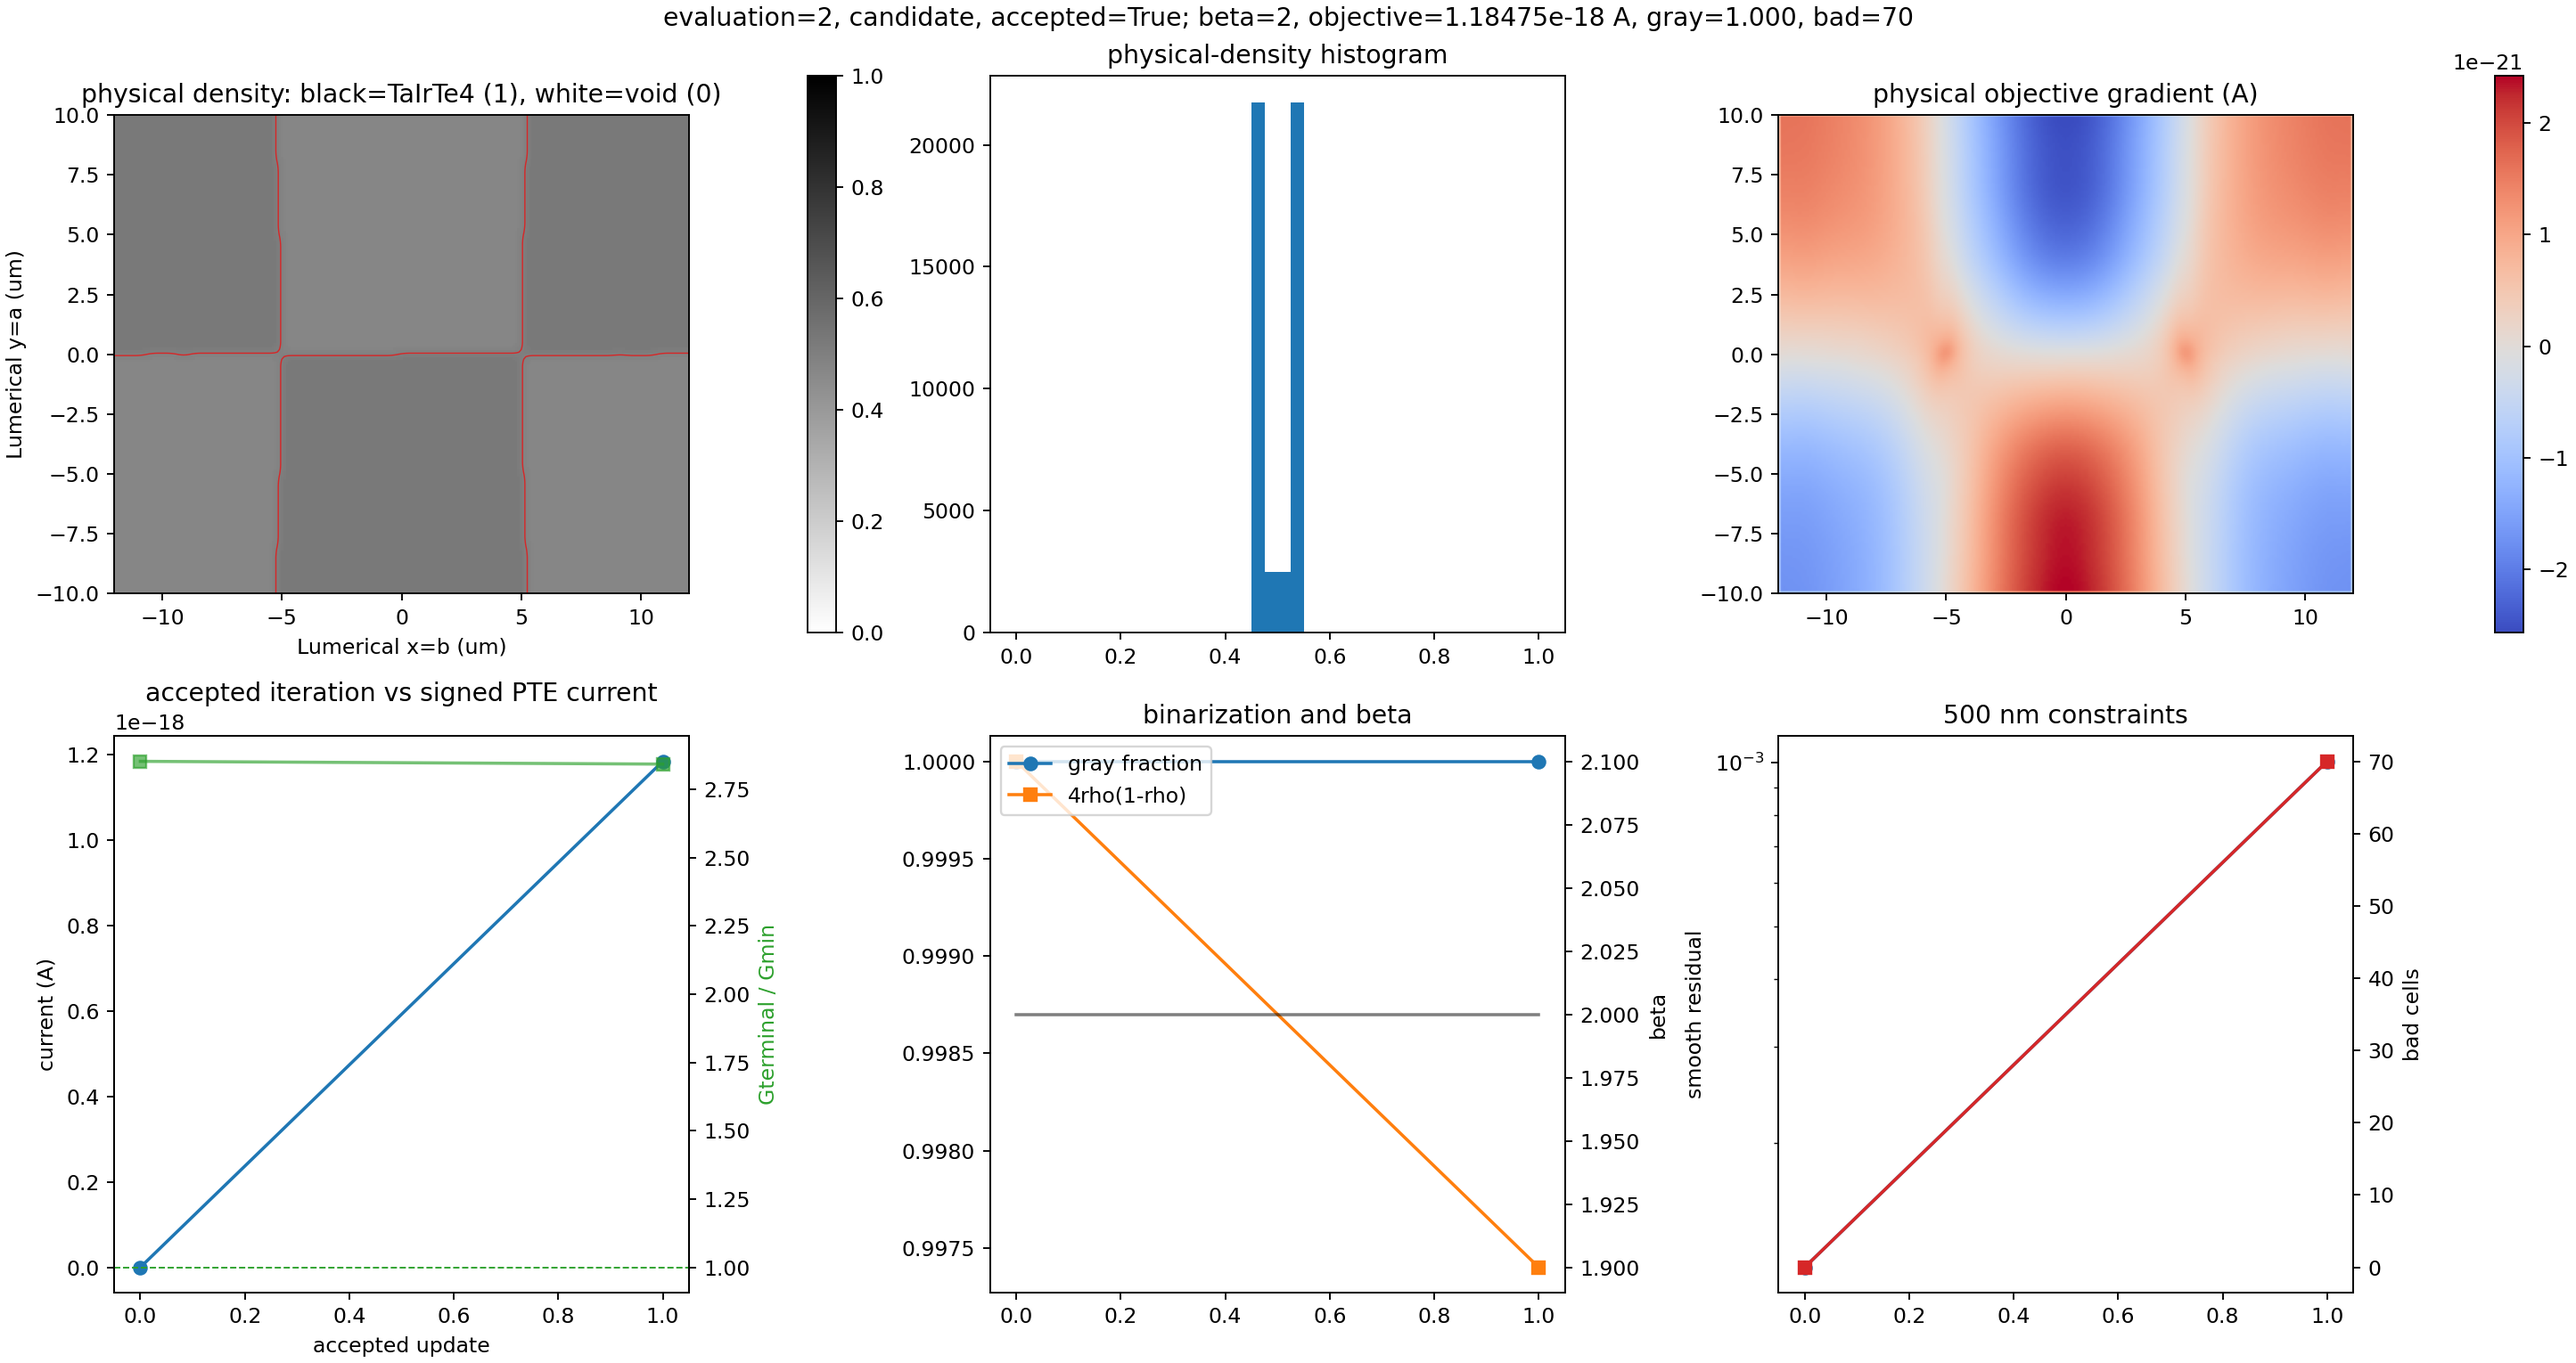
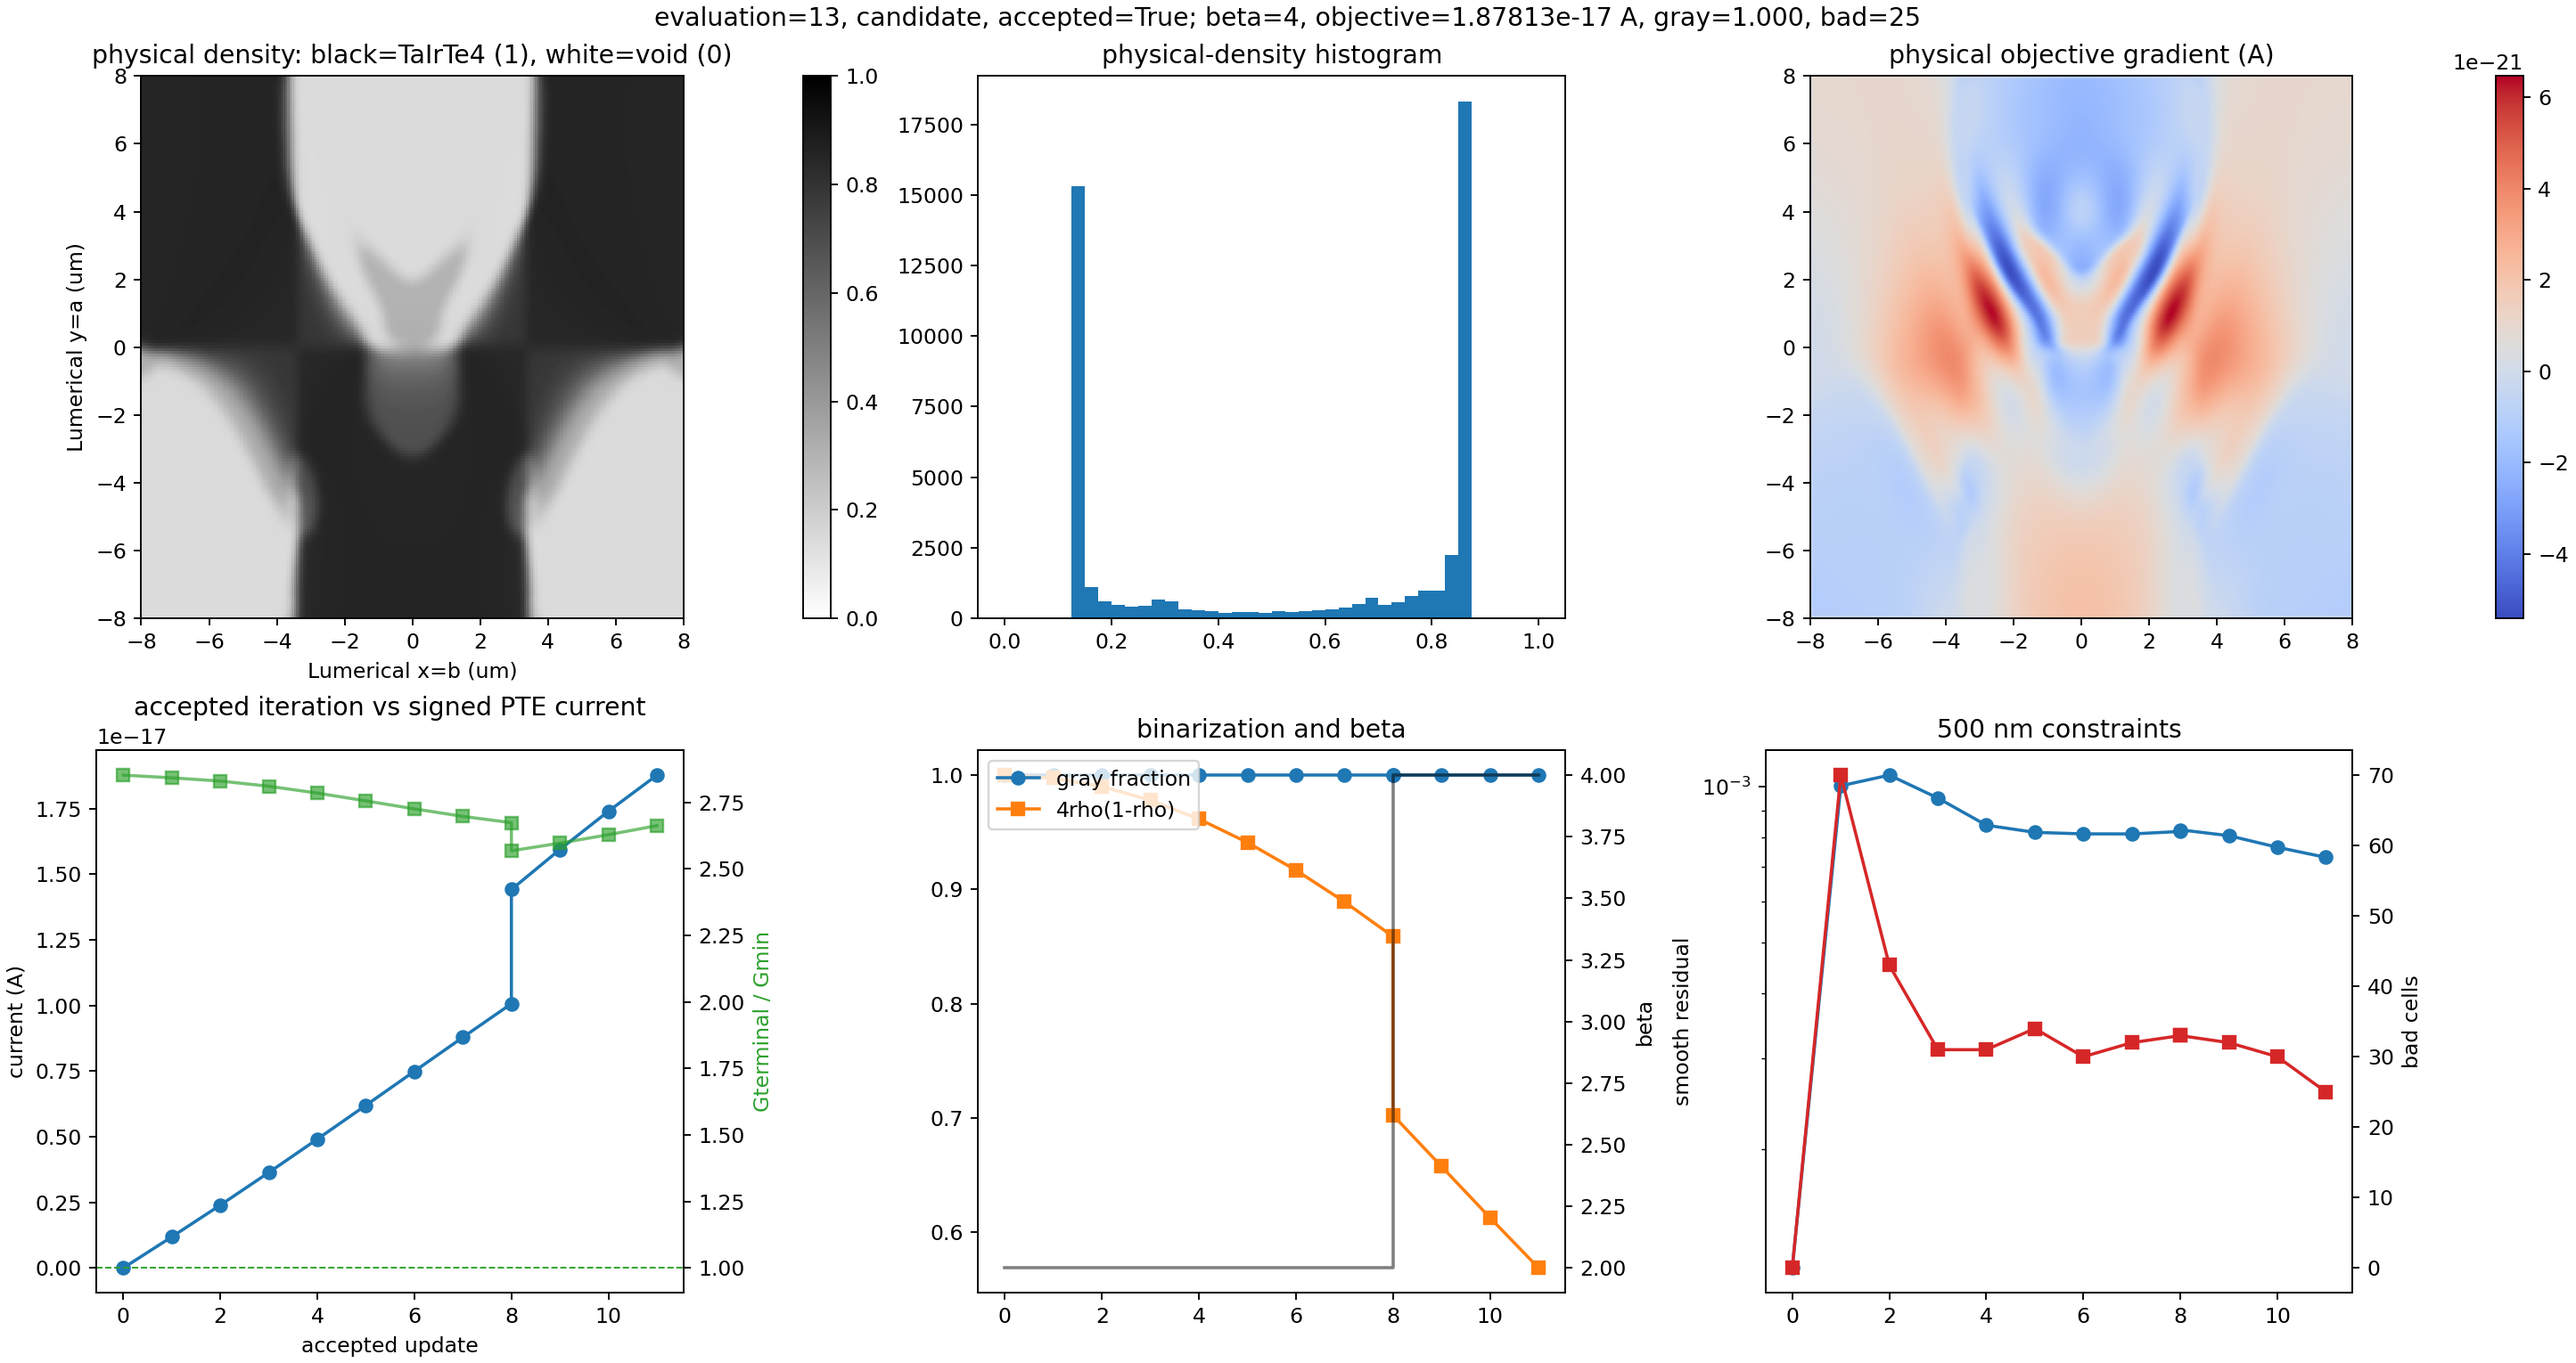
Publish every Run012 iteration plot

diff --git a/photothermal_pte/optimization_runs/tairte4_flake_topology/regenerate_iteration_plots.py b/photothermal_pte/optimization_runs/tairte4_flake_topology/regenerate_iteration_plots.py
@@ -1,0 +1,150 @@
+#!/usr/bin/env python3
+"""Regenerate every optimization-evaluation plot from immutable raw artifacts."""
+
+from __future__ import annotations
+
+import argparse
+import hashlib
+import json
+from pathlib import Path
+import re
+import time
+
+import numpy as np
+
+from photothermal_pte.optimization_runs.tairte4_flake_topology.run_optimization import (
+    publish_plot,
+)
+
+
+EVALUATION_PATTERN = re.compile(r"evaluation_(\d+)")
+
+
+def read_json_with_retry(path: Path, attempts: int = 10) -> list[dict]:
+    for attempt in range(attempts):
+        try:
+            return json.loads(path.read_text())
+        except json.JSONDecodeError:
+            if attempt + 1 == attempts:
+                raise
+            time.sleep(0.2)
+    raise AssertionError("unreachable")
+
+
+def sha256(path: Path) -> str:
+    digest = hashlib.sha256()
+    with path.open("rb") as stream:
+        for block in iter(lambda: stream.read(1024 * 1024), b""):
+            digest.update(block)
+    return digest.hexdigest()
+
+
+def locate_artifacts(raw_root: Path, row: dict) -> tuple[int, str, Path, Path]:
+    if row.get("initial_uniform"):
+        return (
+            1,
+            "initial",
+            raw_root / "evaluation_initial_rho.npz",
+            raw_root / "evaluation_initial" / "objective_gradient.npz",
+        )
+
+    result_path = Path(row["solver_result"])
+    evaluation_dir = result_path.parent
+    match = EVALUATION_PATTERN.search(evaluation_dir.name)
+    if match is None:
+        raise ValueError(f"cannot extract evaluation id from {evaluation_dir}")
+    evaluation_id = int(row.get("evaluation_id", match.group(1)))
+    label = "reprojection" if row.get("stage_reprojection") else "candidate"
+    return (
+        evaluation_id,
+        label,
+        raw_root / f"{evaluation_dir.name}_rho.npz",
+        evaluation_dir / "objective_gradient.npz",
+    )
+
+
+def regenerate(raw_root: Path, published: Path) -> dict:
+    history = read_json_with_retry(raw_root / "history.json")
+    published.mkdir(parents=True, exist_ok=True)
+    index: list[dict] = []
+    last_accepted: tuple[int, str, np.ndarray, np.ndarray, dict, int] | None = None
+
+    for history_index, row in enumerate(history):
+        evaluation_id, label, rho_path, gradient_path = locate_artifacts(raw_root, row)
+        if not rho_path.is_file() or not gradient_path.is_file():
+            raise FileNotFoundError(f"incomplete evaluation {evaluation_id}: {rho_path}, {gradient_path}")
+        with np.load(rho_path) as data:
+            rho = np.asarray(data["rho"], dtype=np.float64)
+        with np.load(gradient_path) as data:
+            gradient = np.asarray(data["gradient_total_A"], dtype=np.float64)
+        summary = {
+            "beta": float(row["beta"]),
+            "gray_fraction_0p01_0p99": float(row["gray_fraction"]),
+            "exact": {"total_bad_cell_count": int(row["exact_bad_cells"])},
+        }
+        publish_plot(
+            published,
+            history[: history_index + 1],
+            rho,
+            gradient,
+            summary,
+            evaluation_id=evaluation_id,
+            accepted=bool(row["accepted"]),
+            label=label,
+            publish_latest=False,
+        )
+        plot_path = published / f"evaluation_{evaluation_id:04d}_{label}.png"
+        record = {
+            "evaluation_id": evaluation_id,
+            "label": label,
+            "accepted": bool(row["accepted"]),
+            "accepted_update_index": int(row.get("accepted_update_index", row["global_iteration"])),
+            "beta": float(row["beta"]),
+            "objective_A": float(row["objective_A"]),
+            "plot": plot_path.name,
+            "plot_sha256": sha256(plot_path),
+        }
+        index.append(record)
+        if row["accepted"]:
+            last_accepted = (
+                evaluation_id, label, rho, gradient, summary, history_index
+            )
+
+    if last_accepted is not None:
+        evaluation_id, label, rho, gradient, summary, history_index = last_accepted
+        publish_plot(
+            published,
+            history[: history_index + 1],
+            rho,
+            gradient,
+            summary,
+            evaluation_id=evaluation_id,
+            accepted=True,
+            label=label,
+            publish_latest=True,
+        )
+
+    payload = {
+        "schema": "tairte4-iteration-plot-index-v1",
+        "red_density_contour_present": False,
+        "density_rendering": "gray_r: black=rho_1_TaIrTe4, white=rho_0_void",
+        "evaluation_count": len(index),
+        "latest_evaluation_id": index[-1]["evaluation_id"] if index else None,
+        "plots": index,
+    }
+    (published / "iteration_plot_index.json").write_text(json.dumps(payload, indent=2) + "\n")
+    return payload
+
+
+def main() -> int:
+    parser = argparse.ArgumentParser()
+    parser.add_argument("--raw-root", required=True, type=Path)
+    parser.add_argument("--published-dir", required=True, type=Path)
+    args = parser.parse_args()
+    payload = regenerate(args.raw_root.resolve(), args.published_dir.resolve())
+    print(json.dumps(payload, indent=2))
+    return 0
+
+
+if __name__ == "__main__":
+    raise SystemExit(main())

diff --git a/photothermal_pte/optimization_runs/tairte4_flake_topology/publish_live_iteration_plots.py b/photothermal_pte/optimization_runs/tairte4_flake_topology/publish_live_iteration_plots.py
@@ -1,0 +1,75 @@
+#!/usr/bin/env python3
+"""Regenerate, commit, and push each completed optimization evaluation."""
+
+from __future__ import annotations
+
+import argparse
+import fcntl
+import json
+from pathlib import Path
+import subprocess
+import time
+
+from photothermal_pte.optimization_runs.tairte4_flake_topology.regenerate_iteration_plots import (
+    regenerate,
+)
+
+
+def run(command: list[str], *, cwd: Path, check: bool = True) -> subprocess.CompletedProcess:
+    return subprocess.run(command, cwd=cwd, check=check, text=True)
+
+
+def publish(repo: Path, relative_published: Path, branch: str, evaluation_id: int) -> bool:
+    run(["git", "add", "--", str(relative_published)], cwd=repo)
+    changed = run(
+        ["git", "diff", "--cached", "--quiet", "--", str(relative_published)],
+        cwd=repo,
+        check=False,
+    ).returncode != 0
+    if not changed:
+        return False
+    run(
+        ["git", "commit", "-m", f"Update Run012 plots through evaluation {evaluation_id}"],
+        cwd=repo,
+    )
+    run(["git", "push", "origin", branch], cwd=repo)
+    return True
+
+
+def main() -> int:
+    parser = argparse.ArgumentParser()
+    parser.add_argument("--repo", required=True, type=Path)
+    parser.add_argument("--raw-root", required=True, type=Path)
+    parser.add_argument("--published-dir", required=True, type=Path)
+    parser.add_argument("--branch", required=True)
+    parser.add_argument("--poll-seconds", type=float, default=20.0)
+    parser.add_argument("--once", action="store_true")
+    args = parser.parse_args()
+
+    repo = args.repo.resolve()
+    raw_root = args.raw_root.resolve()
+    published = args.published_dir.resolve()
+    relative_published = published.relative_to(repo)
+    lock_path = Path("/tmp/tairte4_run012_plot_publisher.lock")
+    with lock_path.open("w") as lock:
+        fcntl.flock(lock, fcntl.LOCK_EX | fcntl.LOCK_NB)
+        last_seen = -1
+        while True:
+            try:
+                history = json.loads((raw_root / "history.json").read_text())
+                complete = len(history)
+                if complete != last_seen:
+                    time.sleep(2.0)
+                    payload = regenerate(raw_root, published)
+                    latest = int(payload["latest_evaluation_id"] or 0)
+                    publish(repo, relative_published, args.branch, latest)
+                    last_seen = complete
+            except (json.JSONDecodeError, FileNotFoundError):
+                pass
+            if args.once:
+                return 0
+            time.sleep(args.poll_seconds)
+
+
+if __name__ == "__main__":
+    raise SystemExit(main())

diff --git a/photothermal_pte/optimization_runs/tairte4_flake_topology/run_optimization.py b/photothermal_pte/optimization_runs/tairte4_flake_topology/run_optimization.py
@@ -126,12 +126,6 @@ def publish_plot(
         rho.T, origin="lower", extent=extent, vmin=0, vmax=1,
         cmap="gray_r", interpolation="nearest",
     )
-    axes[0, 0].contour(
-        np.linspace(extent[0], extent[1], rho.shape[0]),
-        np.linspace(extent[2], extent[3], rho.shape[1]),
-        rho.T,
-        levels=[0.5], colors=["tab:red"], linewidths=0.6,
-    )
     axes[0, 0].set_title("physical density: black=TaIrTe4 (1), white=void (0)")
     axes[0, 0].set_xlabel("Lumerical x=b (um)")
     axes[0, 0].set_ylabel("Lumerical y=a (um)")
